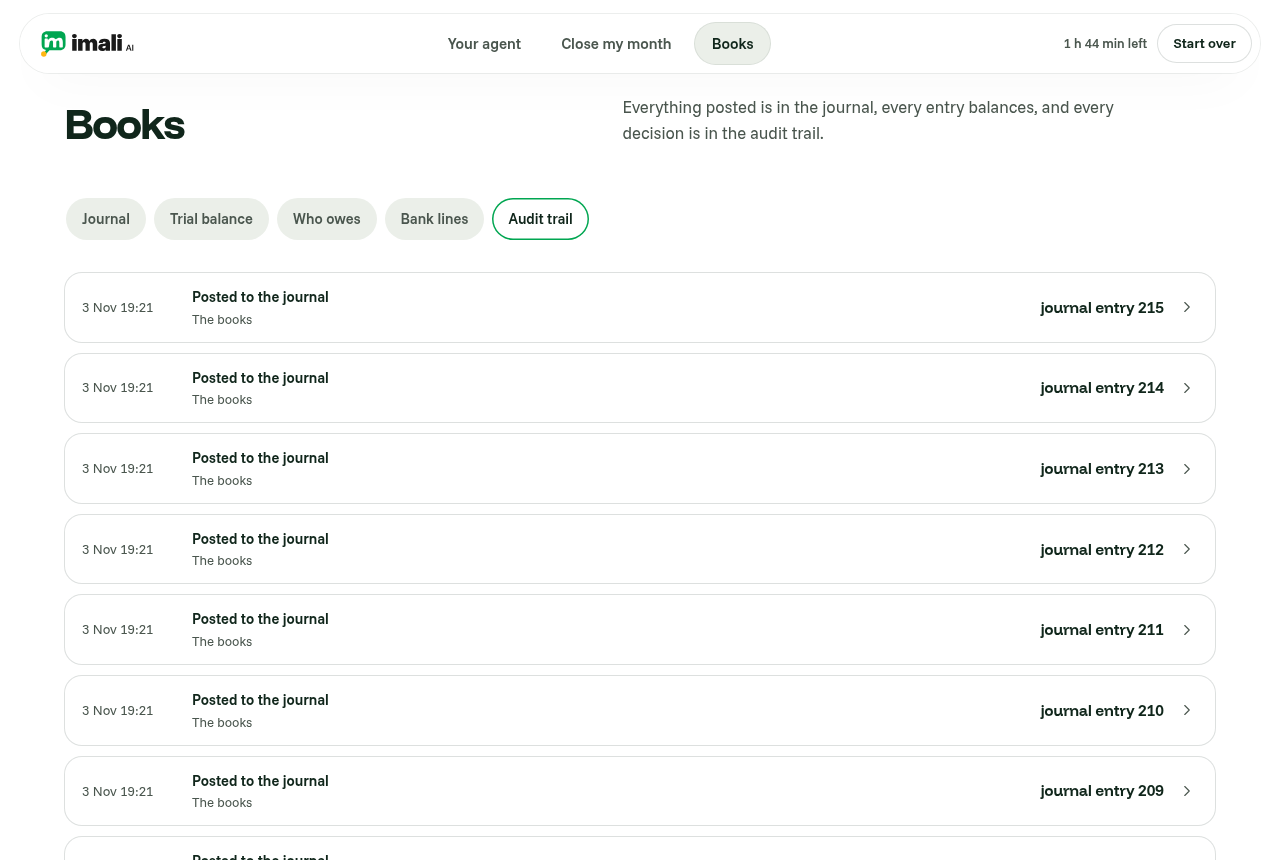
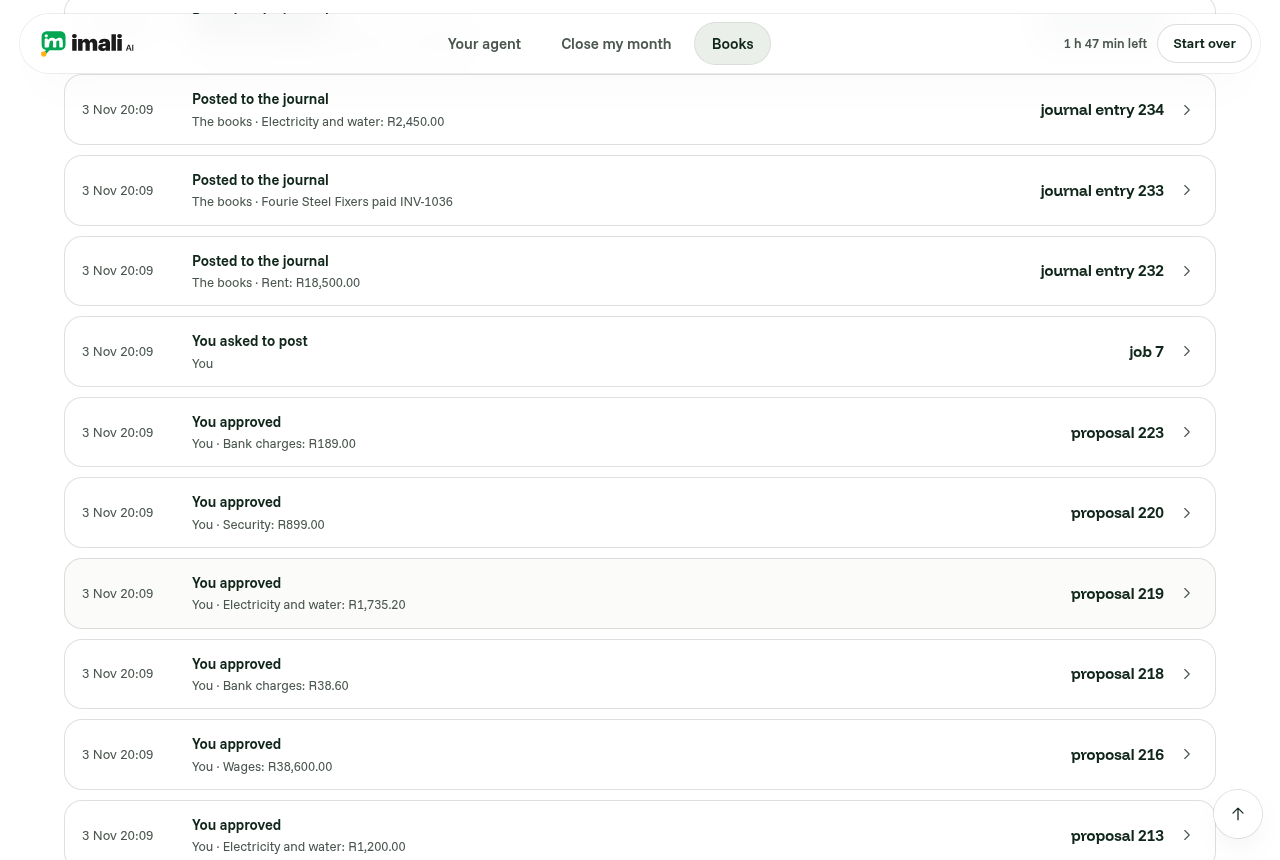
Lead the README with what the close found, and show each claim working
The README now opens with the money the October close found, shows the review, the five
finished steps with their Vultr calls, a voice note, the summary's checks and the named
audit trail, and adds a diagram. docs/close-stream-october.txt is the step stream of a real
close on the live copy through posting.

diff --git a/README.md b/README.md
@@ -2,11 +2,11 @@
 
 Imali AI runs the books, stock and sales of shops, suppliers and company groups. This repository is its month-end agent for a building-supply merchant. A shop owner usually closes the month by ticking each bank line against invoices, bills and the day's takings by hand; this agent does that matching and leaves the owner only the lines that need a decision. The owner tells their agent what happened by text or voice note, and the agent drafts each record. At the month's end it reads the bank statement, matches every line to the books, flags what does not fit, lists who owes money with follow-ups to copy, and posts what the owner approves to balanced double-entry books.
 
-On the shop's October statement of 33 lines, the live copy closes the month in about half a minute. It matches 10 lines to invoices, bills and cash-ups, suggests an account for 16 costs and leaves 7 for the owner, and once all 33 lines are approved and posted, the bank balance in the books equals the statement's closing balance of R126,662.02.
+On the shop's October statement of 33 lines, the live copy closes the month in less than 30 seconds and finds that the shop paid Thabeng Roof Sheeting R21,760.00 twice, that a contractor paid R415.50 less than its invoice, and that contractors owe the shop R57,475.50 past its due date, with a follow-up drafted for each of the three late contractors. It matches 10 lines to invoices, bills and cash-ups, suggests an account for 16 costs and leaves 7 for the owner. Beyond matching, it books the payment made twice as money the supplier must pay back, says why each of the 4 amounts that do not match was flagged, and once all 33 lines are approved and posted, the bank balance in the books equals the statement's closing balance of R126,662.02. The full step stream of that close, through posting, is in [docs/close-stream-october.txt](docs/close-stream-october.txt).
 
-It was built for Challenge 2 of Vultr: Agent Rush, "Powering the Future of Work", and this page is written for the event's judges and for developers who want to run it. The live copy runs on one Vultr VM in Seoul at https://158-247-235-244.sslip.io. To try it, follow the three-minute walk in [DEMO.md](DEMO.md); to run or deploy it yourself, see Run it and Deploy on Vultr below.
+It was built for Challenge 2 of Vultr: Agent Rush, "Powering the Future of Work", and this page is written for the event's judges and for developers who want to run it. Run it, Deploy on Vultr and the Code column of the Vultr table are for developers. The live copy runs on one Vultr VM in Seoul at https://158-247-235-244.sslip.io. To try it, follow the three-minute walk in [DEMO.md](DEMO.md); to run or deploy it yourself, see Run it and Deploy on Vultr below.
 
-![The agent drafting a sale, at 1280 pixels](docs/screenshots/agent-1280.png)
+![The review after a close, with the payment made twice and an overpayment first](docs/screenshots/review-1280.png)
 
 ## The five steps of "Close my month"
 
@@ -18,6 +18,26 @@ The close runs as a job on the server, and each step streams to the page as it h
 4. List who owes: the agent works out what each contractor owes once the matched payments are posted, and drafts a follow-up for each late account for the owner to copy into their own chat. It sends nothing.
 5. Post and summarise: the owner approves or rejects each item, alone or in groups. Approved items post to the ledger as balanced entries, and the page shows a one-page summary of the month with the bank balance checked against the statement.
 
+## What it looks like
+
+The screenshots are from the live copy on 4 November 2026, at 1280 pixels wide; `docs/screenshots/` also has the main views at 390 pixels, the width of a phone.
+
+The close streams each step as it runs, with the Vultr calls each step made. This is the close of 4 November, after posting.
+
+![Close my month with all five steps done](docs/screenshots/close-steps-1280.png)
+
+A voice note is turned into words by Vultr's Whisper model, and the agent drafts the cost for the owner to approve.
+
+![A voice note about fuel, drafted under Fuel and vehicle costs](docs/screenshots/voice-1280.png)
+
+After posting, the summary checks the books against the bank statement and checks that the two sides of the books are equal.
+
+![The month's summary with its checks](docs/screenshots/summary-checks-1280.png)
+
+The audit trail names every item the agent drafted and the owner approved, rejected or posted.
+
+![The audit trail](docs/screenshots/audit-1280.png)
+
 ## How it uses Vultr
 
 | Vultr service | Model or plan | What it does here | Code |
@@ -28,11 +48,24 @@ The close runs as a job on the server, and each step streams to the page as it h
 | Serverless Inference | bge-reranker-v2-m3 | Scores customers, suppliers and accounts against each statement line | `VultrRanker.scores` |
 | Serverless Inference | nemotron-3.5-content-safety | Screens every chat message and the statement's wording before the agent reads it | `Vultr.screen` |
 
-The agent's reasoning, its tool calls and the text it writes come from a chat model reached through `LLM_BASE_URL`, which can be any service that speaks OpenAI's chat format. Code checks every figure it proposes: an amount must appear in the owner's own words, and a follow-up or the month's summary paragraph may only name sums the books hold.
+In the chat, a reasoning model decides which of the agent's four tools to call: draft a record, list who owes, read the shop's figures or start the close. It also writes the follow-ups and the month's summary paragraph. It is reached through `LLM_BASE_URL`, which can be any service that speaks OpenAI's chat format. Code checks every figure it proposes: an amount must appear in the owner's own words, and a follow-up or the month's summary paragraph may only name sums the books hold.
 
 We measured the reranker on the shop's October statement. On the eight costs the tests check, the right account scored between 0.016 and 0.86 and every wrong one 0.0015 or less, so the matcher trusts its first choice only when that choice clears a small floor and scores at least five times the second. Those scores are kept in `tests/data/rerank-october.json`, and the tests replay them. If Vultr cannot be reached, a word-matching ranker takes over and the step stream says so.
 
 ## Architecture
+
+```mermaid
+flowchart LR
+  B[Browser] --> C[Caddy: TLS]
+  C --> A[Web app: FastAPI]
+  A <--> D[(Postgres: books, jobs, proposals, audit trail)]
+  K[Worker] <--> D
+  A --> X[Parser container: no network]
+  A --> V[Vultr Serverless Inference]
+  K --> V
+  A --> L[Reasoning model: LLM_BASE_URL]
+  K --> L
+```
 
 The browser talks only to Caddy, the web server in front, which passes requests to the web app (FastAPI). The web app and a background worker share one Postgres database, which holds the books, the jobs, every proposal and the audit trail. When the owner presses Close my month, the web app saves a job and the database tells the worker at once (`LISTEN/NOTIFY`). The worker claims the job so that no second worker can run it (`FOR UPDATE SKIP LOCKED`) and writes each step as an event, and the page shows each event as soon as it is written (server-sent events). Uploaded statements and voice notes reach the parser container through a small folder held in memory. That container cannot reach the internet, cannot change its own files, has no special rights on the machine and runs as its own user, and it deletes each file once it has read it.
 

diff --git a/DEMO.md b/DEMO.md
@@ -8,7 +8,7 @@ Open https://158-247-235-244.sslip.io in a browser. The page opens your own copy
 2. A typed sale (0:10): In Your agent, tap "Sold 20 bags of cement for R2,300 cash" under Try saying. Your agent drafts the sale with its debit and credit. Press Approve, and the cash-on-hand figure moves.
 3. A voice note (0:30): Tap the microphone, allow it once, and say "Paid 850 rand cash for fuel for the delivery truck". Tap again to stop and send. Vultr's Whisper model turns it into words, your agent drafts the cost under Fuel and vehicle costs, and you approve it. The voice note is deleted as soon as it is turned into words.
 4. A question (0:55): Ask "Who owes me money?". Your agent answers from the books, contractor by contractor, with what is late.
-5. Close my month (1:05): Open Close my month and press Close my month. The five steps stream in as they happen, in about half a minute, and the README lists what each one does. The statement is read in a locked-down container with no internet access before any model sees it.
+5. Close my month (1:05): Open Close my month and press Close my month. The five steps stream in as they happen, in less than 30 seconds, and the README lists what each one does. The statement is read in a locked-down container with no internet access before any model sees it.
 6. What needs you (1:30): Needs you comes first. Read the card for the second payment to Thabeng Roof Sheeting: it is the same amount and wording two days after the first, and approving it books the money as owed back to the shop. Read why each amount mismatch was flagged, then pick an account for the internet transfer and approve it, or press Reject to set it aside.
 7. The rest in two presses (1:55): Under Matched, press Approve all 10 matched lines. Under Account suggested, check the account Vultr's models suggested for each cost and press Approve all 16 suggested accounts.
 8. Follow-ups (2:10): Under Follow-ups, each late contractor has a message to copy into your own chat. Press Copy the message. Your agent sends nothing.
@@ -19,4 +19,4 @@ Open https://158-247-235-244.sslip.io in a browser. The page opens your own copy
 
 The 120-word description for the event's entry form:
 
-> Imali AI's month-end agent closes a shop's books on a Vultr VM in Seoul. The owner tells their agent about a sale or cost by text or voice note, and it drafts the record. Close my month runs five steps on the server: it reads the bank statement in a sandbox with no network, matches each line to invoices, bills and cash-ups, flags duplicate payments and mismatched amounts, lists who owes with follow-ups to copy, and posts approved entries to balanced double-entry books. Vultr Serverless Inference turns voice notes into text with Whisper, ranks names and accounts with Qwen embeddings and the BGE reranker, and screens every input with Nemotron. Code decides every match, and the owner approves each entry.
+> Imali AI's month-end agent closes a shop's books on a Vultr VM in Seoul. On a building-supply merchant's October statement it found R21,760 paid twice to a supplier, a contractor's payment R415.50 short and R57,475.50 overdue from contractors, in less than 30 seconds. Owners record sales and costs by text or voice note. Close my month reads the statement in a sandbox with no network, matches each line to invoices, bills and cash-ups, flags what does not fit, drafts follow-ups to copy and posts approved entries to balanced double-entry books. Vultr Serverless Inference runs Whisper for voice notes, Qwen embeddings and the BGE reranker for matching, and Nemotron for safety. Code decides every match, and the owner approves each entry.
